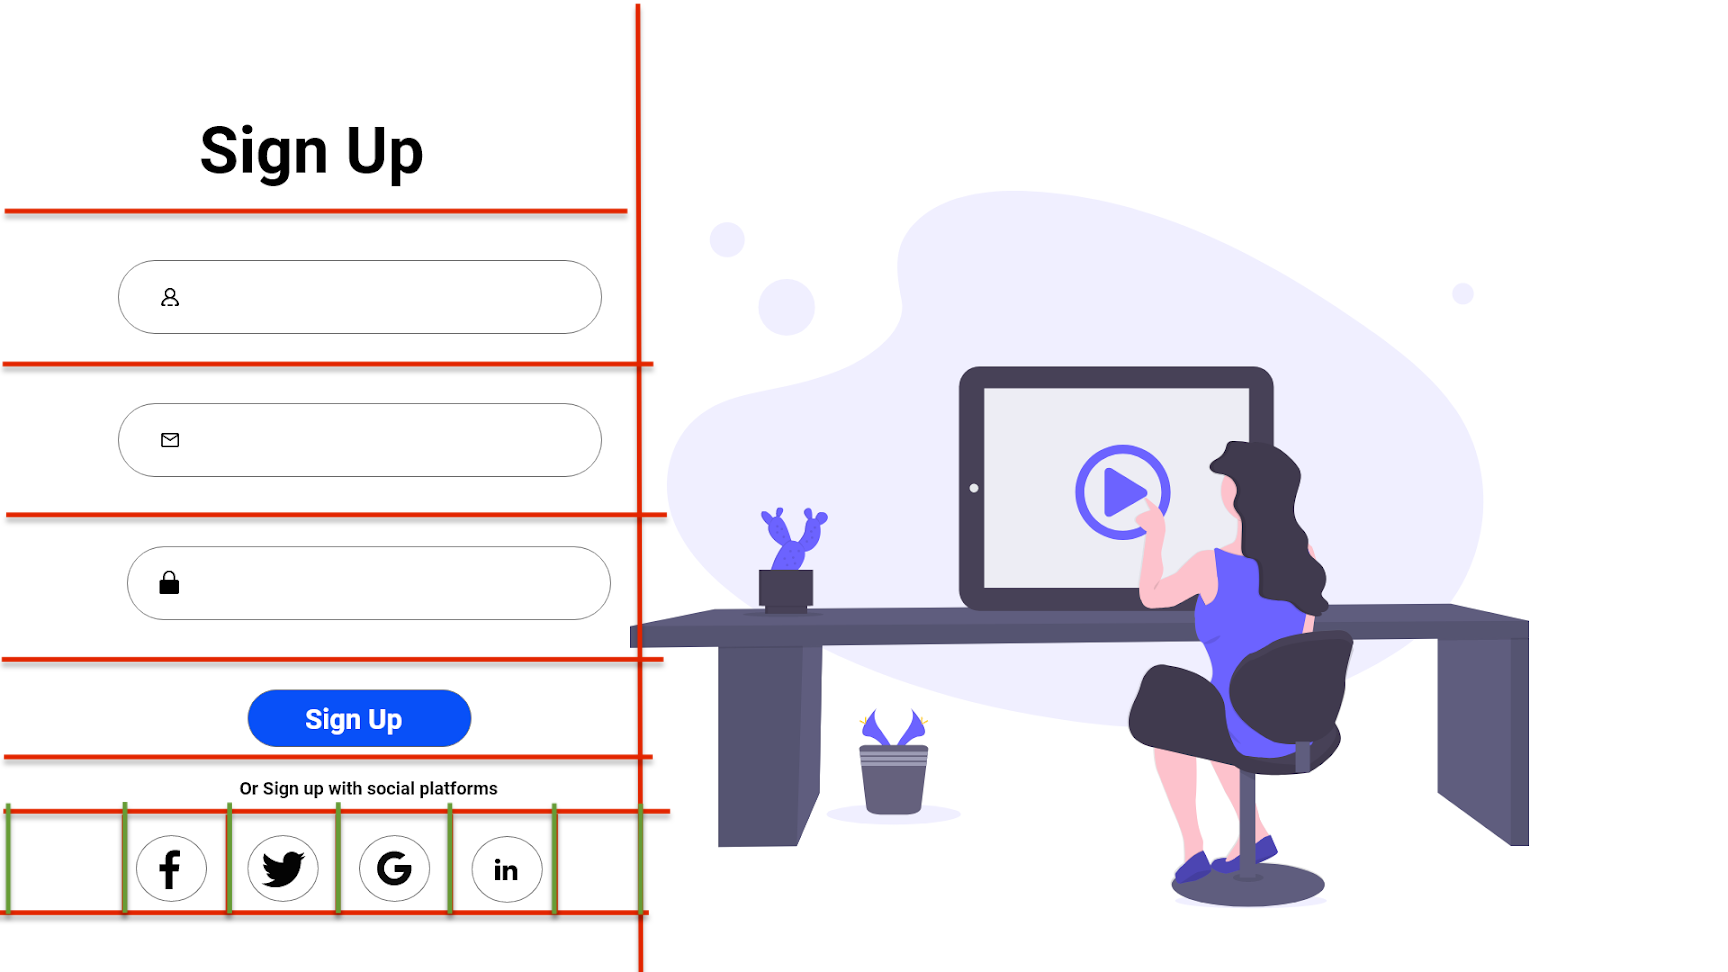
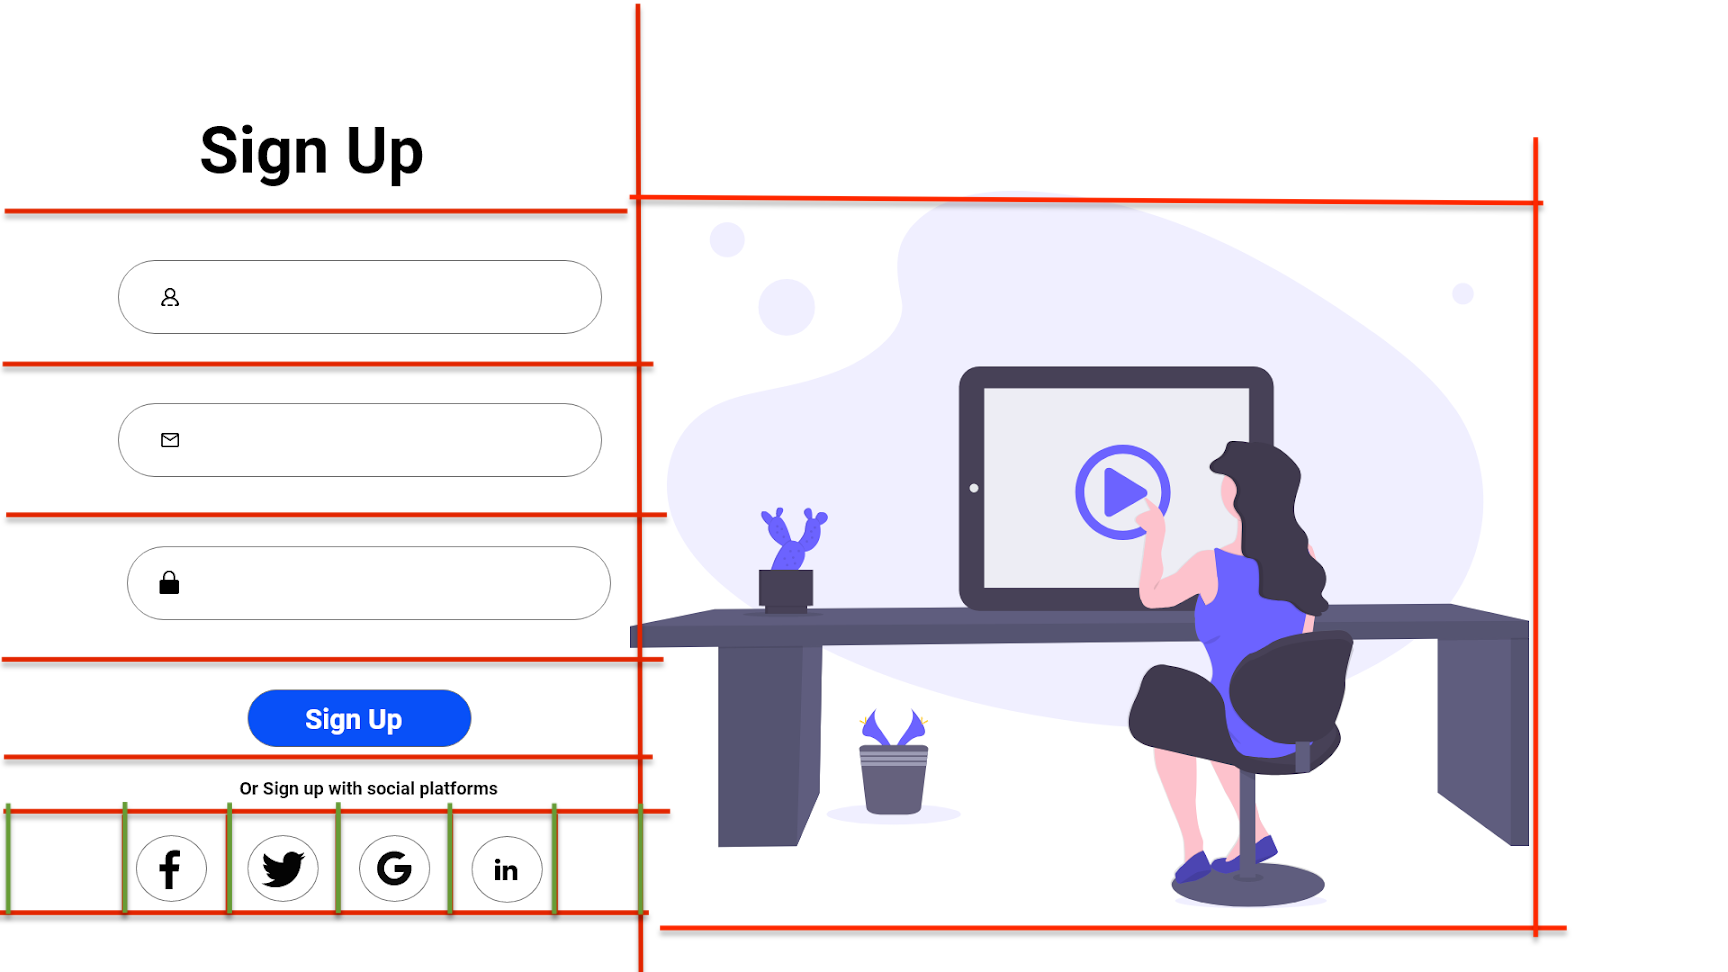
added grid html & css for sign-up

Changed region(s): [[0.3438, 0.1543, 0.9062, 0.9877]]

diff --git a/css/main.css b/css/main.css
@@ -1,0 +1,116 @@
+/* CSS Page */
+
+
+/* all-encompassing container for sign-up-page */
+.sign-up-container {  display: grid;
+    grid-template-columns: 0.2fr 1.3fr 2.1fr 0.4fr;
+    grid-template-rows: 0.9fr 1.5fr 1.7fr 0.3fr;
+    gap: 0px 0px;
+    grid-auto-flow: row;
+    grid-template-areas:
+      ". sign-up-container-left . ."
+      ". sign-up-container-left sign-up-image ."
+      ". sign-up-container-left sign-up-image ."
+      ". . . .";
+  }
+  
+  /* container for sign-up left side of page */
+  .sign-up-container-left {  display: grid;
+    grid-template-columns: 1fr 1fr 1fr;
+    grid-template-rows: 1.6fr 1.2fr 1.2fr 1.1fr 0.8fr 0.4fr 0.7fr;
+    gap: 0px 0px;
+    grid-auto-flow: row;
+    grid-template-areas:
+      "sign-up-title sign-up-title sign-up-title"
+      "username-input username-input username-input"
+      "email-input email-input email-input"
+      "password-input password-input password-input"
+      "sign-up-button sign-up-button sign-up-button"
+      "sign-up-bottom-text sign-up-bottom-text sign-up-bottom-text"
+      "social-media-container social-media-container social-media-container";
+    grid-area: sign-up-container-left;
+  }
+  
+  /* NOTE: feel free to remove the below styling if you would prefer to just 
+    use Bootstrap to make a "form" and lay it out after creating that. Just 
+    thinking that the following containers could be useful for laying things out
+    as we want. 
+    Honestly it's probably better just to do it that way and then worry about 
+    layout after? But this is here since it was easy enough to do on 
+    gridlayoutit and so we could easily just place stuff in. This method might 
+    work better if we were doing just CSSGrid and not using Bootstrap maybe. */
+
+  /* "Sign Up" */
+  .sign-up-title {
+    justify-self: center;
+    align-self: end;
+    grid-area: sign-up-title;
+  }
+  
+  /* username container */
+  .username-input {
+    justify-self: center;
+    align-self: center;
+    grid-area: username-input;
+  }
+  
+  /* email container */
+  .email-input {
+    justify-self: center;
+    align-self: center;
+    grid-area: email-input;
+  }
+  
+  /* password container */
+  .password-input {
+    justify-self: center;
+    align-self: center;
+    grid-area: password-input;
+  }
+  
+  /* button container */
+  .sign-up-button {
+    justify-self: center;
+    align-self: center;
+    grid-area: sign-up-button;
+  }
+  
+  /* sign-up bottom text container */
+  .sign-up-bottom-text {
+    justify-self: center;
+    align-self: center;
+    grid-area: sign-up-bottom-text;
+  }
+  
+  /* social media container */
+  .social-media-container {  display: grid;
+    grid-template-columns: 1fr 1fr 1fr 1fr;
+    grid-template-rows: 1fr;
+    gap: 0px 0px;
+    grid-auto-flow: row;
+    justify-items: center;
+    align-items: center;
+    grid-template-areas:
+      "facebook-container twitter-container google-container linked-in-container";
+    grid-area: social-media-container;
+  }
+  
+  /* facebook */
+  .facebook-container { grid-area: facebook-container; }
+  
+  /* twitter */
+  .twitter-container { grid-area: twitter-container; }
+  
+  /* google */
+  .google-container { grid-area: google-container; }
+  
+  /* linked in */
+  .linked-in-container { grid-area: linked-in-container; }
+  
+  /* image for sign up */
+  .sign-up-image {
+    justify-self: center;
+    align-self: center;
+    grid-area: sign-up-image;
+  }
+  

diff --git a/sign-up.html b/sign-up.html
@@ -1,0 +1,37 @@
+<!DOCTYPE html>
+<html lang="en">
+<head>
+<meta charset="UTF-8">
+<meta name="viewport" content="width=device-width, initial-scale=1.0">
+<meta http-equiv="X-UA-Compatible" content="ie=edge">
+<meta name="Sign Up Page" content="The sign up page for the week1project."/>
+<link rel="stylesheet" href="https://cdnjs.cloudflare.com/ajax/libs/twitter-bootstrap/5.1.0/css/bootstrap.min.css">
+<link rel="stylesheet" href="https://cdnjs.cloudflare.com/ajax/libs/font-awesome/5.15.4/css/all.min.css">
+<link rel="stylesheet" href="assets/css/style.css">
+<link rel="stylesheet" href="css/main.css">
+<title>Sign Up Page</title>
+</head>
+<body>
+    <!-- Grid Layout for Sign-Up -->
+    <div class="sign-up-container">
+        <div class="sign-up-container-left">
+          <div class="sign-up-title"></div>
+          <div class="username-input"></div>
+          <div class="email-input"></div>
+          <div class="password-input"></div>
+          <div class="sign-up-button"></div>
+          <div class="sign-up-bottom-text"></div>
+          <div class="social-media-container">
+            <div class="facebook-container"></div>
+            <div class="twitter-container"></div>
+            <div class="google-container"></div>
+            <div class="linked-in-container"></div>
+          </div>
+        </div>
+        <div class="sign-up-image"></div>
+      </div>
+
+<script src="https://cdnjs.cloudflare.com/ajax/libs/popper.js/2.9.2/umd/popper.min.js"></script>
+<script src="https://cdnjs.cloudflare.com/ajax/libs/twitter-bootstrap/5.1.0/js/bootstrap.min.js"></script>
+</body>
+</html>
